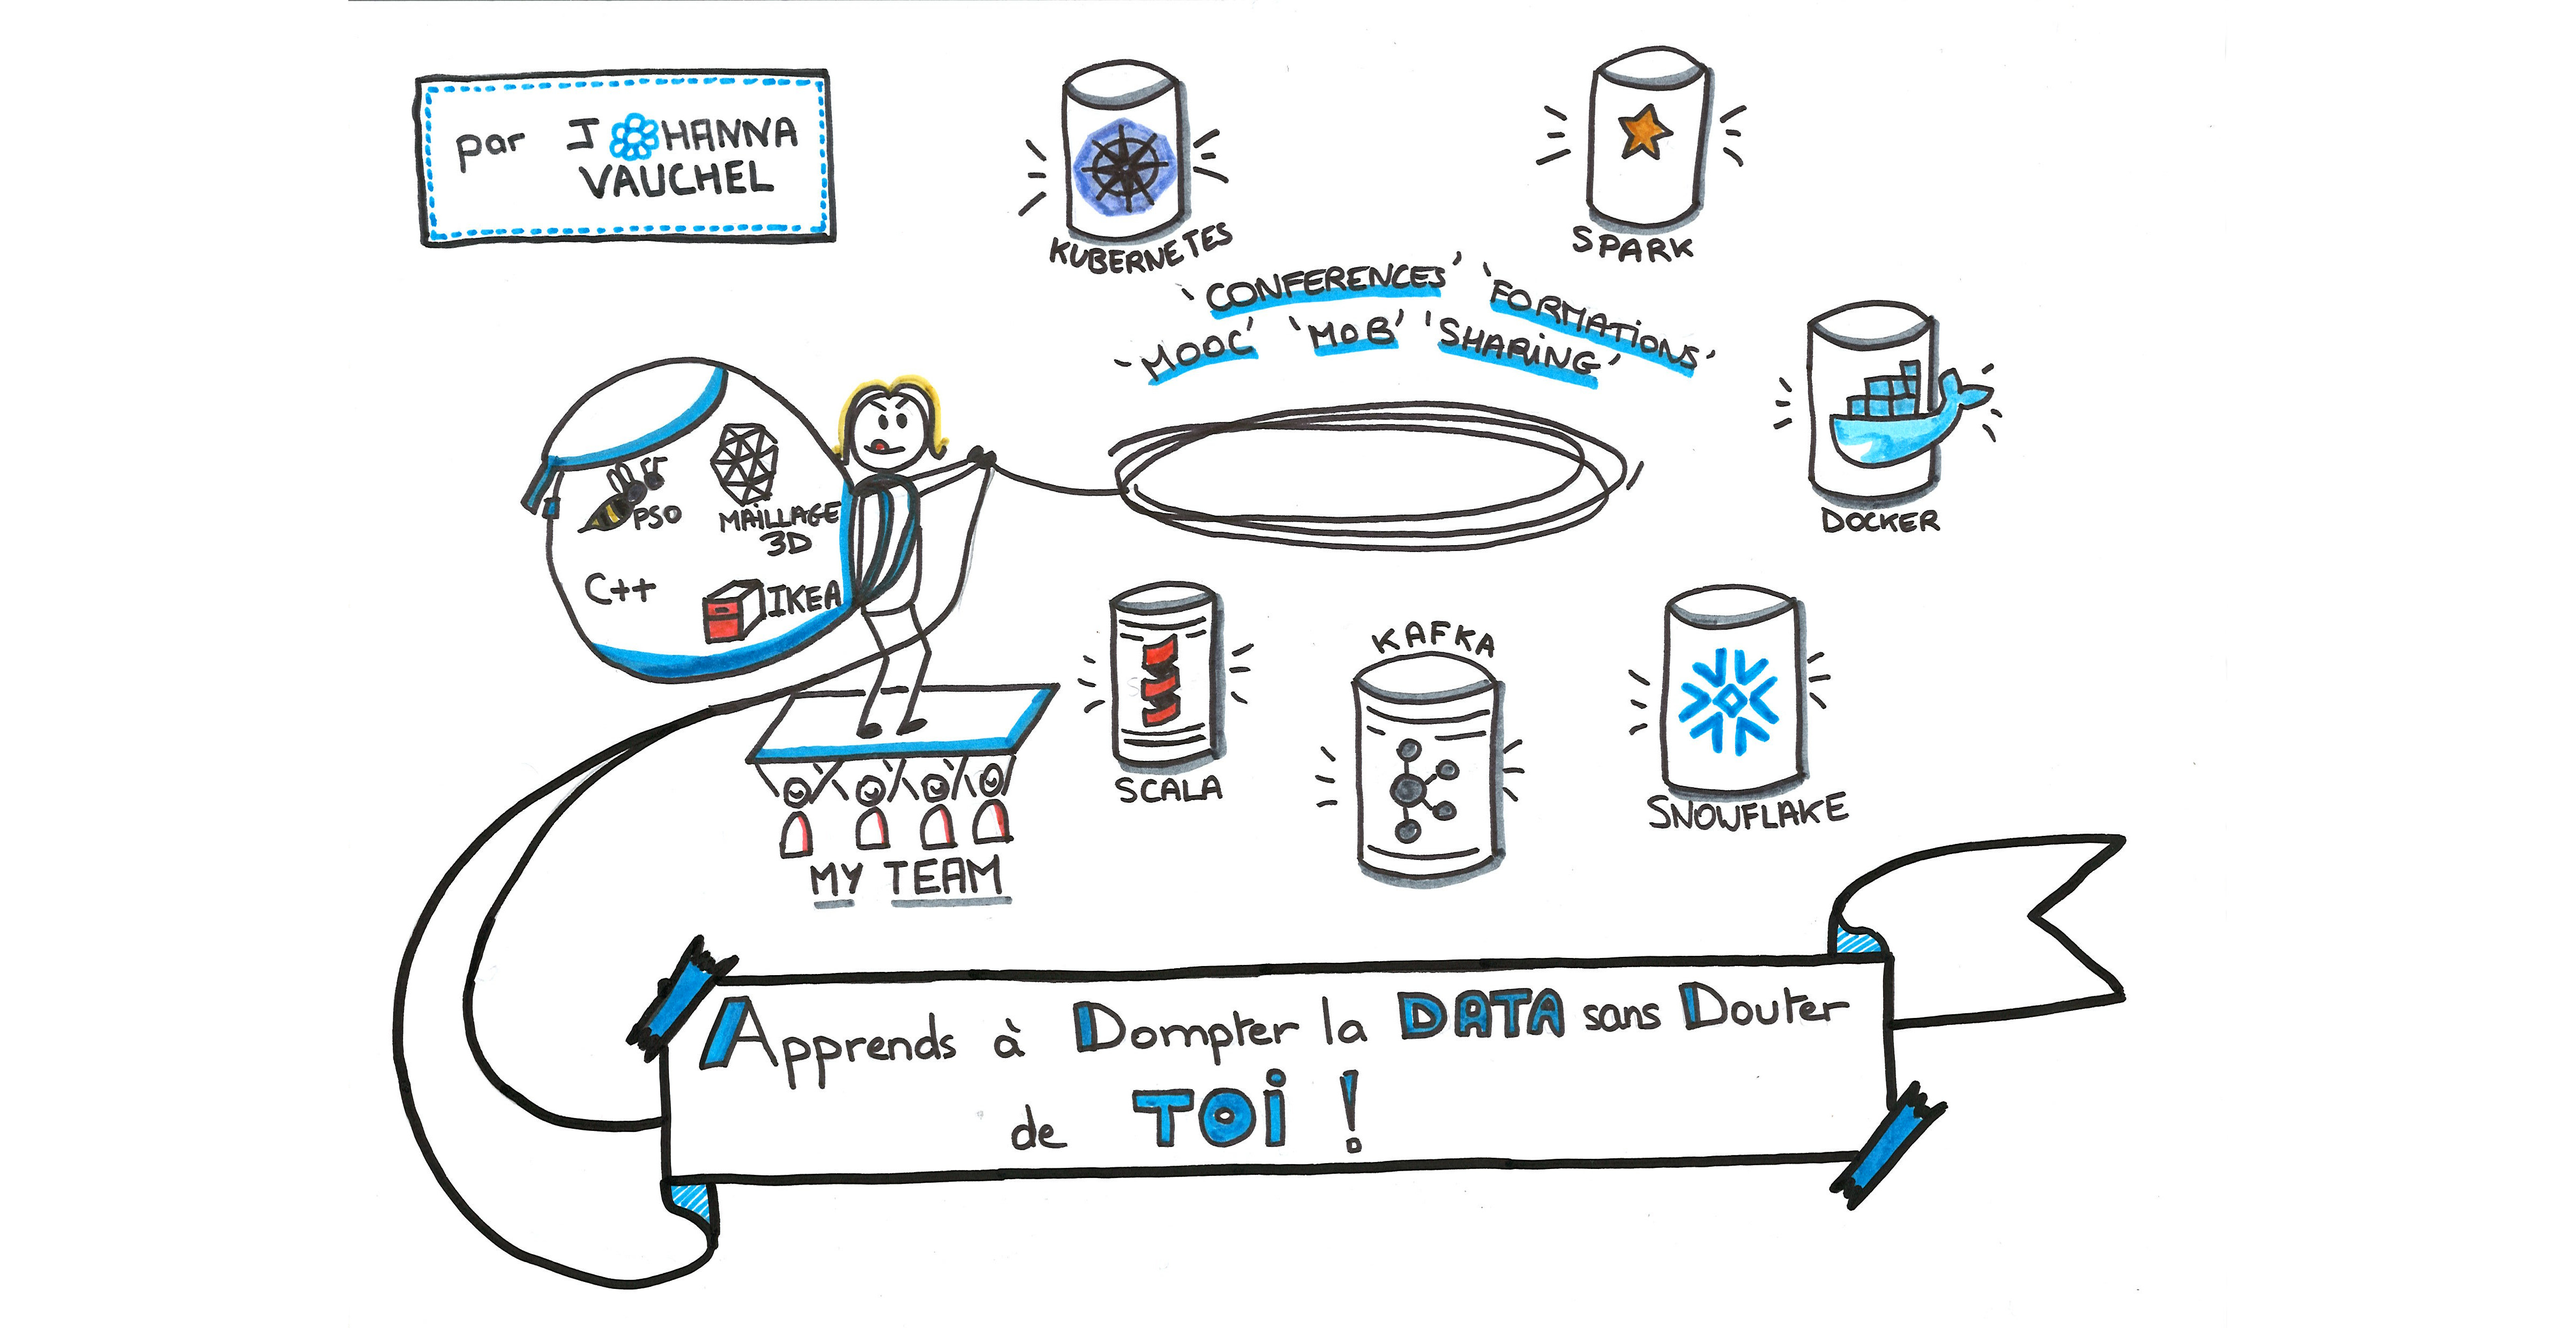
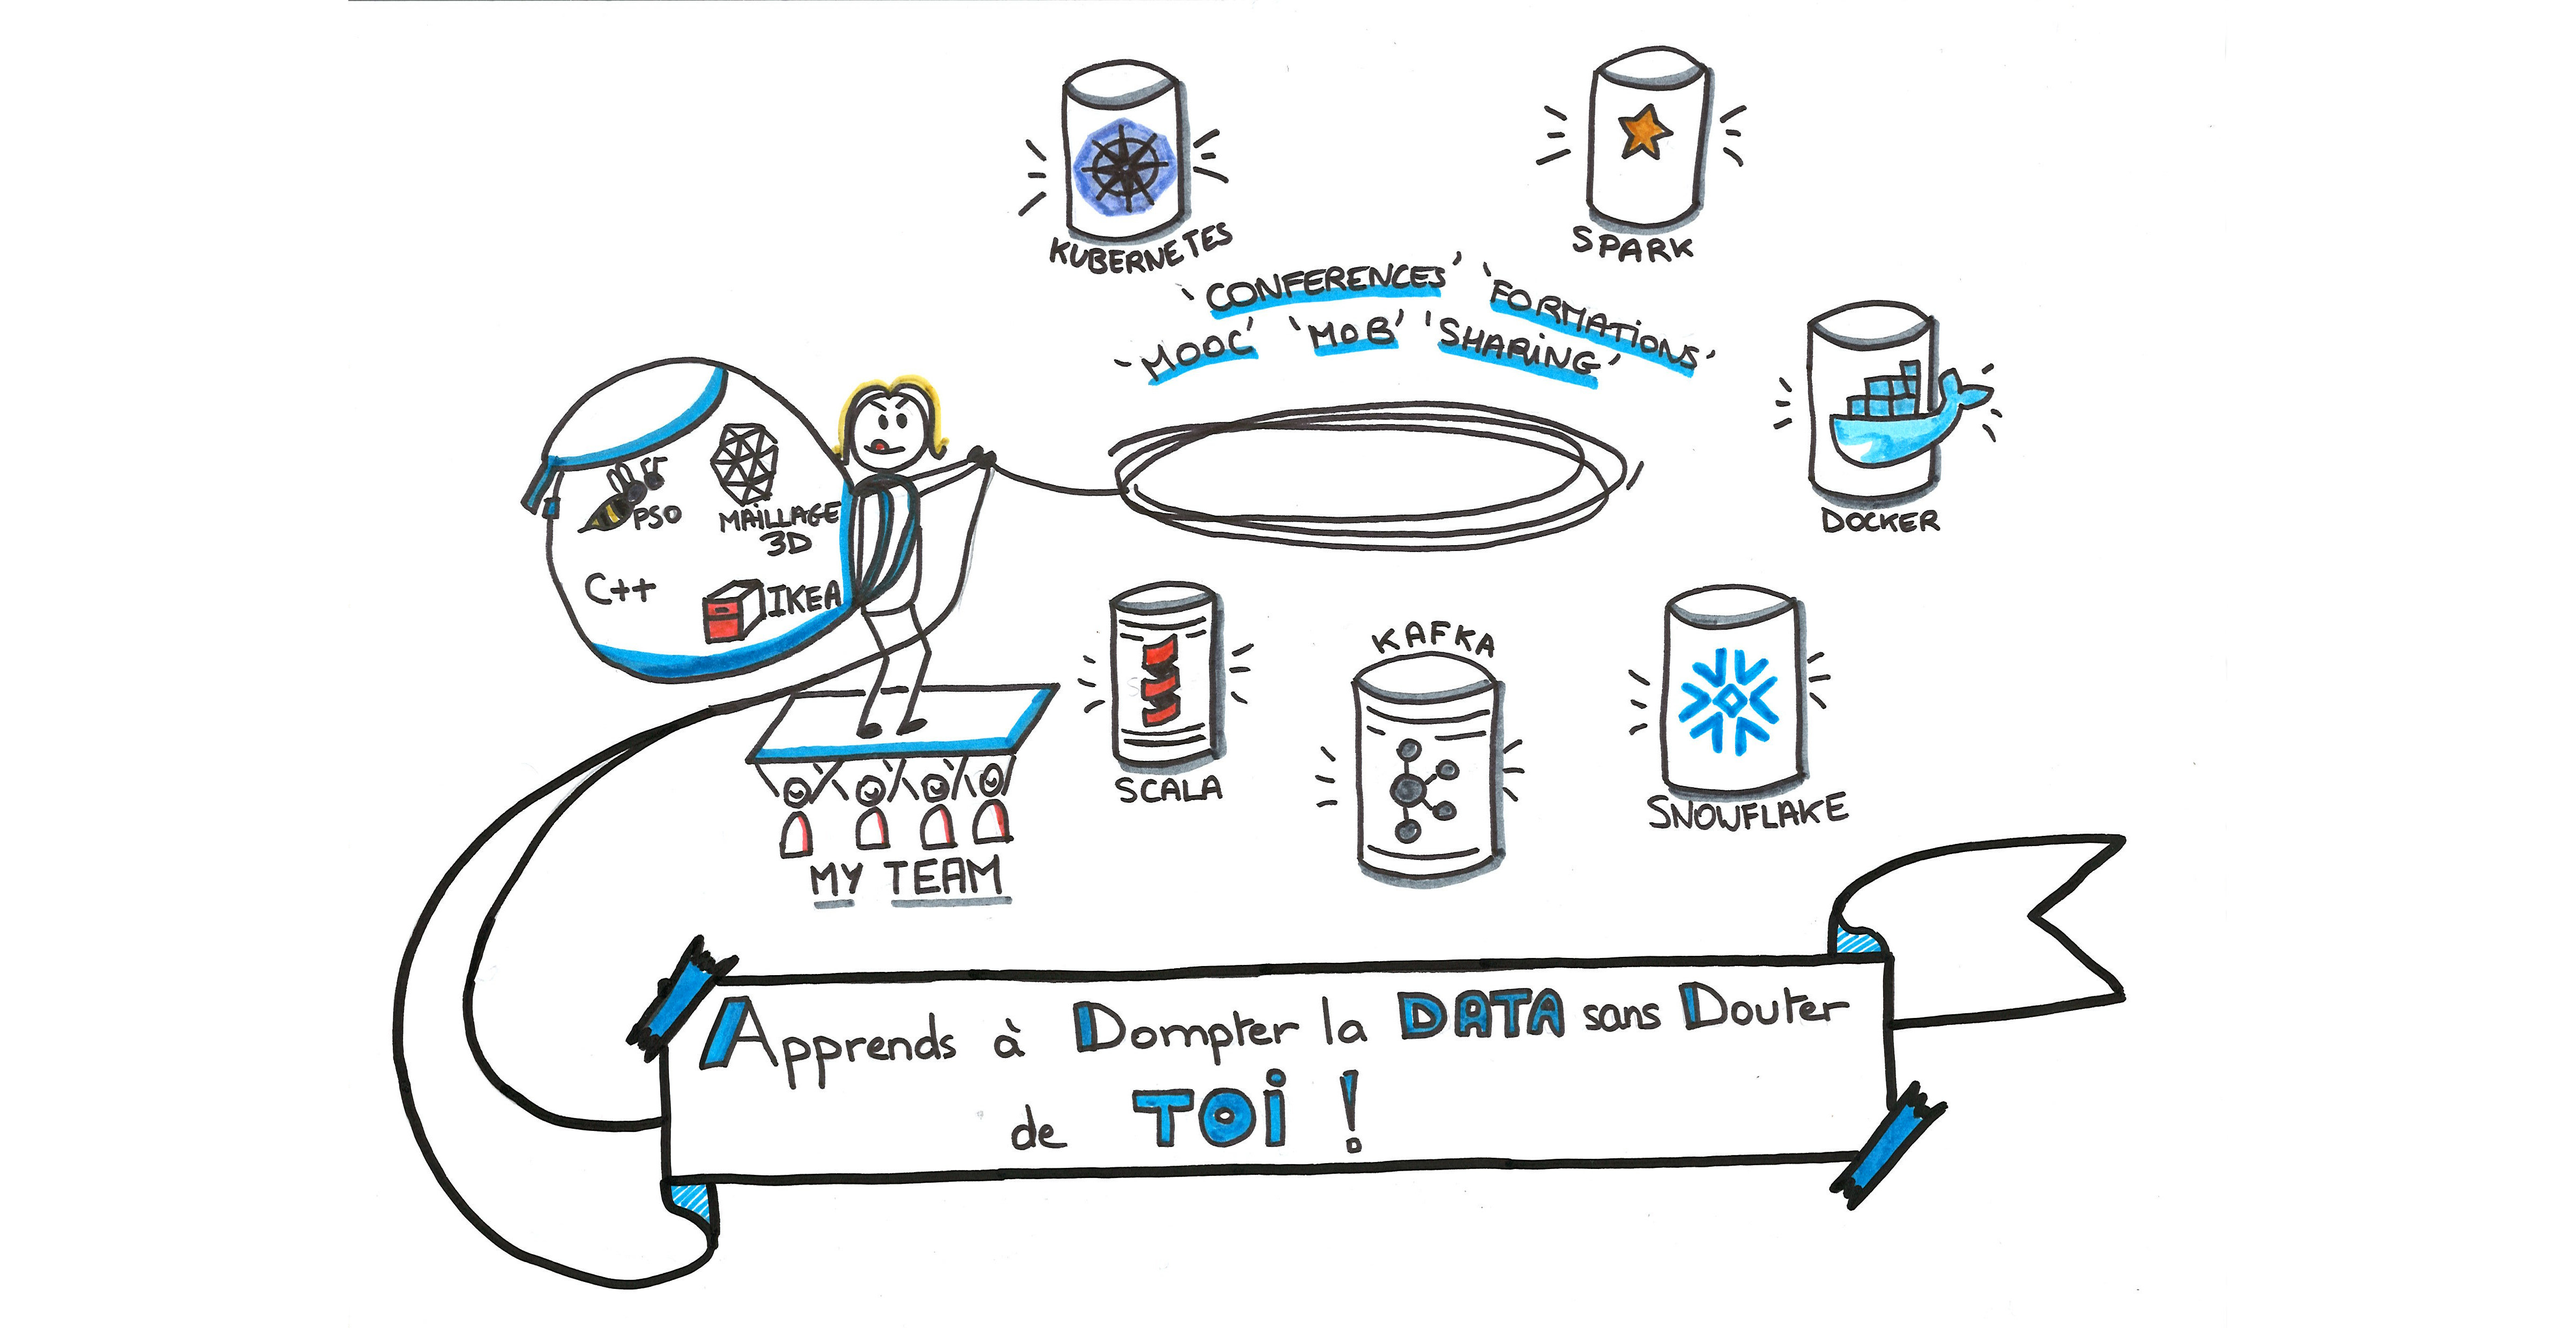
update prez

Changed region(s): [[0.156, 0.031, 0.3432, 0.1863]]

diff --git a/custom.css b/custom.css
@@ -30,7 +30,7 @@ body:after {
     padding: 1em;
     width: 10em;
     height: 10em;
-    background: url("./images/qr.png");
+    background: url("./images/qrcode.jpeg");
     background-repeat: no-repeat;
 }
 
@@ -40,9 +40,9 @@ body:after {
     padding: 17em;
     width: 10em;
     height: 10em;
-    background: url("./images/myName.png");
+    background: url("./images/tadx.jpeg");
     background-repeat: no-repeat;
-    background-position: 96% 3%;
+    background-position: 100% 0%;
 }
 
 
